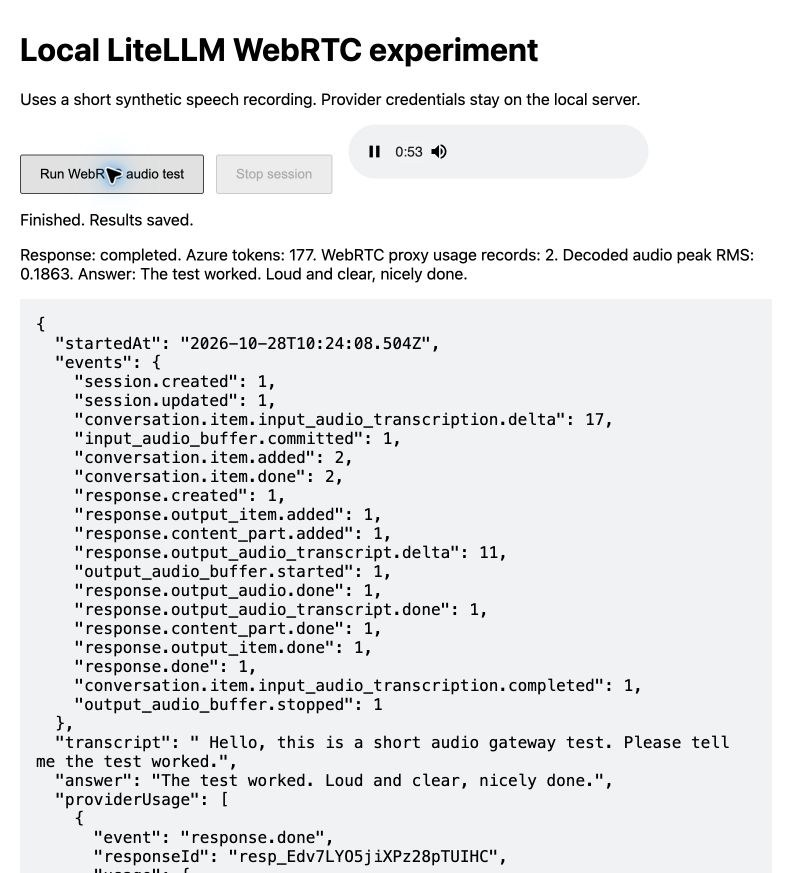
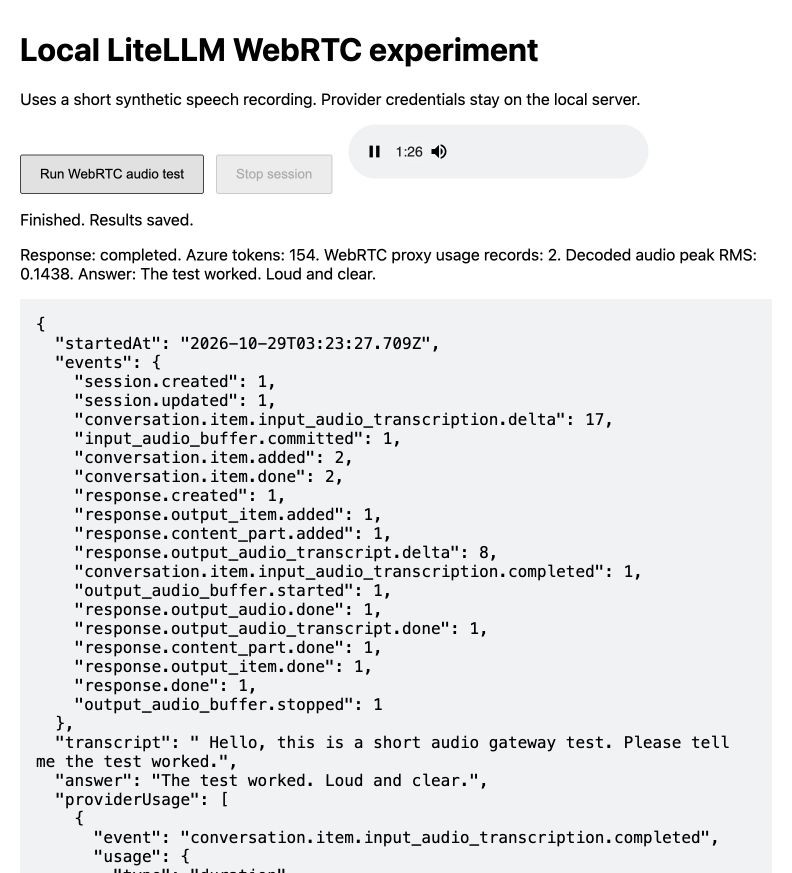
docs(realtime): refresh azure webrtc rebase evidence

diff --git a/README.md b/README.md
@@ -1,11 +1,5 @@
-This branch contains sanitized reproduction evidence for BerriAI/litellm PR #48775
+This branch stores sanitized browser evidence for LiteLLM PR #48775
 
-The screenshots use actual Azure calls with synthetic speech and a browser WebRTC client
+Before is captured at 0f68b9919ca31df448bcc89e3dfe344b6ff039b9. After is captured at 58674094a34a2a269589f0e4216ce5931191f58d
 
-Before was captured at 1176e608b199c4a6572c22490839147a9f134ece. It shows a completed audible response with 159 tokens and six seconds of nested transcription, with zero current-session accounting records
-
-After was captured at 8f75416758301f8673e3a3a9cc5e4b3e6f1e4c23. It shows a completed audible response with 177 tokens and six seconds of nested transcription, with two matching accounting records
-
-The archive contains the portable harness, configuration and synthetic audio. Configure server-side Azure credentials and follow its README to reproduce
-
-These files contain no provider credentials or raw service logs
+The archive contains the portable browser harness, configuration, and synthetic speech. Provider credentials and private logs are excluded
